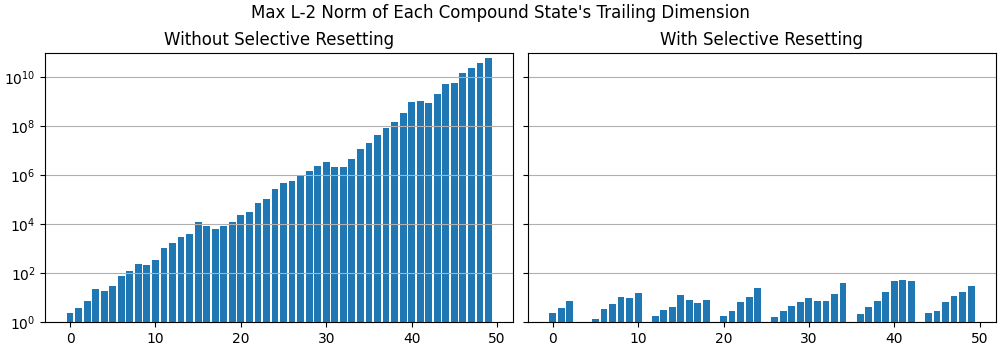
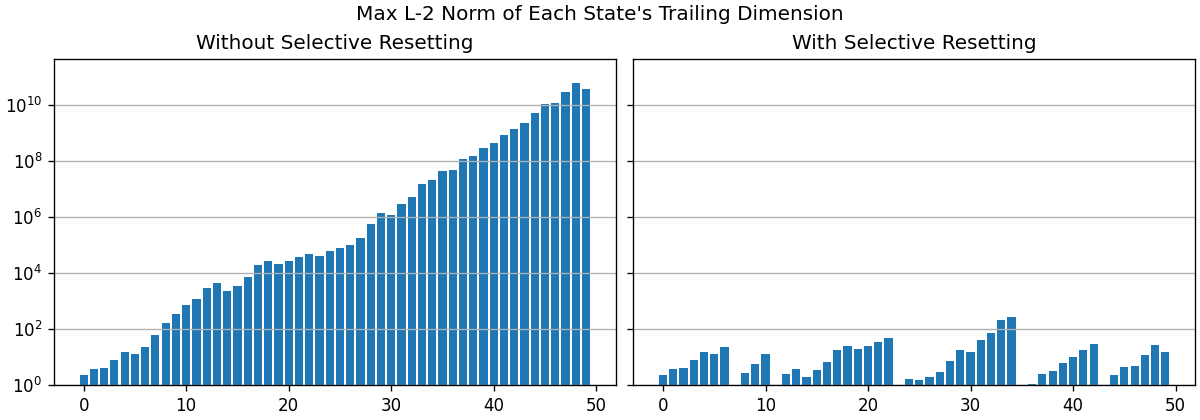
Update README.md

Changed region(s): [[0.0, 0.0857, 1.0, 1.0], [0.248, 0.0, 0.744, 0.0571], [0.0, 0.3429, 0.062, 0.4]]

diff --git a/README.md b/README.md
@@ -34,8 +34,9 @@ The random vectors in each transition matrix of `A` tend to have L-2 norm greate
 
 ```python
 fig, axis = plt.subplots(layout='constrained', figsize=(5, 3.5))
-axis.set(title="Max L-2 Norm of Each State's Trailing Dimension", yscale='log')
+axis.set_title("Max L-2 Norm of Each State's Trailing Dimension")
 axis.bar(range(n), S_without_resets.norm(dim=-1).max(dim=-1).values)
+axis.set(yscale='log', ylim=(1, S_without_resets.max() * 10))
 axis.grid(axis='y')
 ```
 
@@ -43,26 +44,21 @@ we obtain a plot similar to this one (it won't be the same because the matrices 
 
 ![states without resetting](states_without_resetting.png)
 
-Let's say we don't want the L-2 norms of state vectors to spiral out of control. The solution is to rescale state vectors whenever their L-2 norm starts getting too large -- say, whenever the L-2 norm exceeds 5, to keep things simple. Unfortunately, we can't do that in parallel, can we? *Actually, yes, we can*. Our selective-resetting method allows us to do exactly that, _in parallel, as we compute all states via a prefix scan_:
+Let's say we don't want the L-2 norms of state vectors to spiral out of control. The solution is to rescale state vectors whenever their L-2 norm starts getting too large -- say, whenever the L-2 norm exceeds 10, to keep things simple. Unfortunately, we can't do that in parallel, can we?
+
+*Actually, yes, we can*. Our selective-resetting method allows us to do exactly that, _in parallel, as we compute all states via a prefix scan_:
 
 ```python
-import torch.nn.functional as F
-from sample_implementation import UpdateOnRightWithSelectiveResetOnLeft
+from sample_implementation import LeftToRightRecurrenceWithSelectiveReseting
 
-# Define selective-resetting transformation:
-sr_transform = UpdateOnRightWithSelectiveResetOnLeft(
+# Define non-diagonal linear recurrence with selective resetting:
+recurrence_with_sr = LeftToRightRecurrenceWithSelectiveResetting(
     d=d,
-    select_func=lambda mats: (mats.norm(dim=-1) > 5).any(dim=-1)[..., None, None],
+    select_func=lambda mats: (mats.norm(dim=-1) > 10).any(dim=-1)[..., None, None],
     reset_func=lambda mats: F.normalize(mats, dim=-1),
 )
 
-# Add a bias initialized with zeros below each transition matrix:
-A_atop_B = F.pad(A, (0,0, 0,d), value=0)  # shape is [n, d + d, d]
-
-# Compute a parallel prefix scan that applies the selective-resetting transform:
-cumul_A_atop_B = tps.prefix_scan(A_atop_B, sr_transform, dim=-3)  # cumul A's atop B's
-
-S_with_resets = cumul_A_atop_B[..., :d, :] + cumul_A_atop_B[..., d:, :]
+S_with_resets = recurrence_with_sr(A)
 ```
 
 If we compare the max vector norms of `S_without_resets` and `S_with_resets` with the following code,
@@ -72,13 +68,15 @@ fig, axes = plt.subplots(ncols=2, sharey=True, layout='constrained', figsize=(10
 fig.suptitle("Max L-2 Norm of Each State's Trailing Dimension")
 
 axis = axes[0]
-axis.set(title="Without Selective Resetting", yscale='log')
+axis.set_title("Without Selective Resetting")
 axis.bar(range(n), S_without_resets.norm(dim=-1).max(dim=-1).values)
+axis.set(yscale='log', ylim=(1, S_without_resets.max() * 10))
 axis.grid(axis='y')
 
 axis = axes[1]
-axis.set(title="With Selective Resetting", yscale='log')
+axis.set_title("With Selective Resetting")
 axis.bar(range(n), S_with_resets.norm(dim=-1).max(dim=-1).values)
+axis.set(yscale='log', ylim=(1, S_without_resets.max() * 10))
 axis.grid(axis='y')
 ```
 
